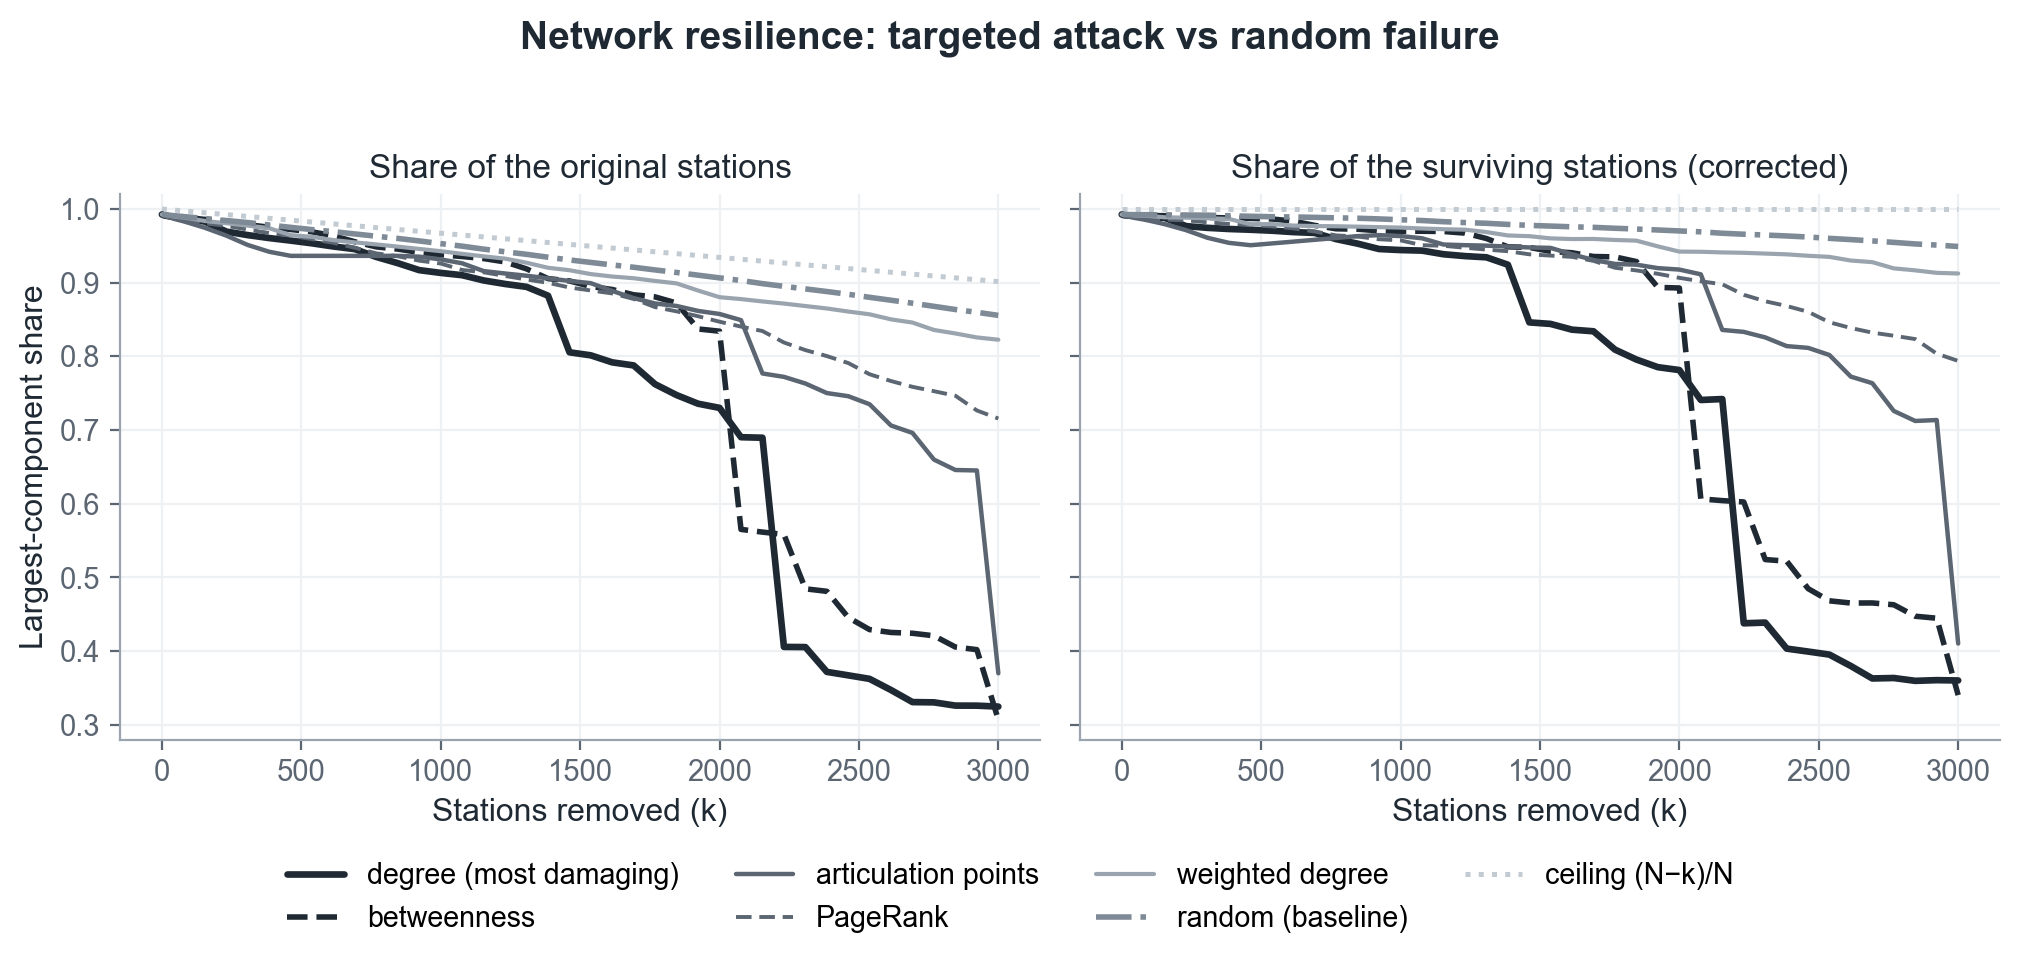
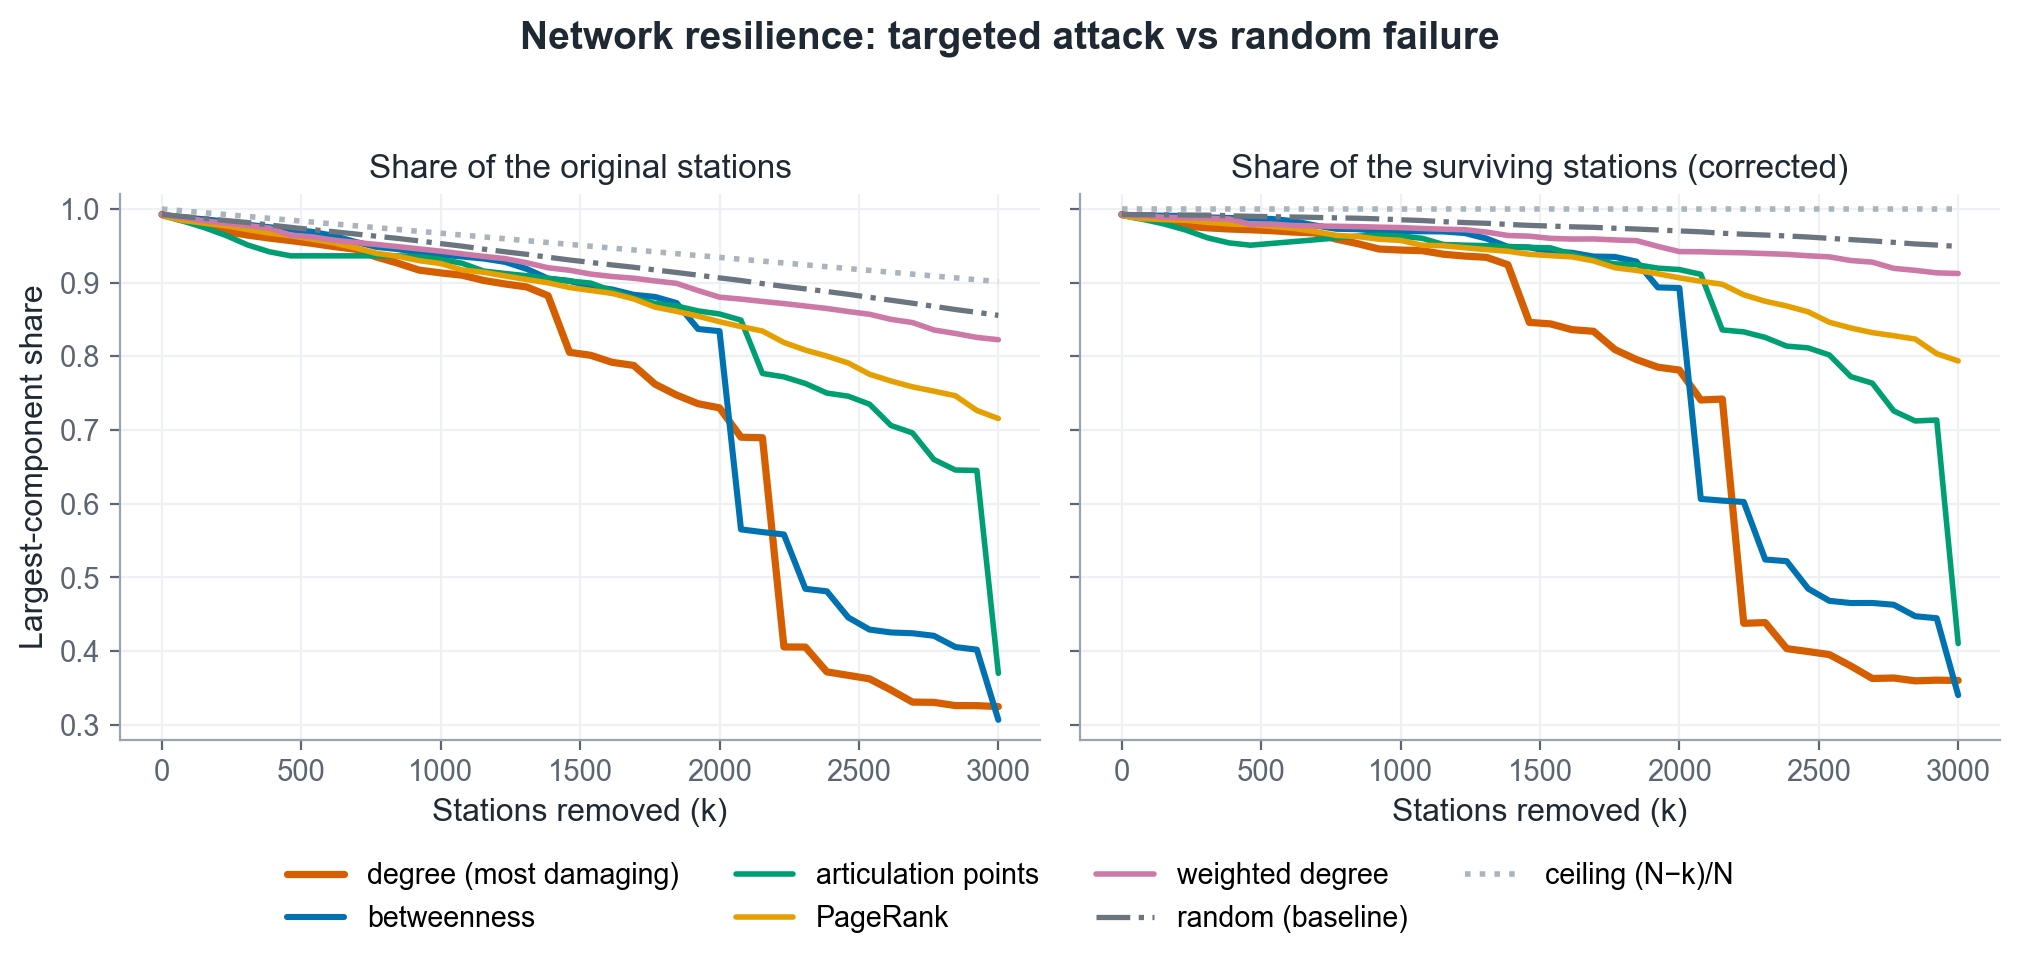
Colour the resilience curves with a colour-blind-safe palette
Switch the seven series from grayscale to the Okabe-Ito palette (attack
strategies coloured, random/ceiling kept grey as references).

diff --git a/reports/make_resilience_figure.py b/reports/make_resilience_figure.py
@@ -21,14 +21,15 @@ OUT.parent.mkdir(parents=True, exist_ok=True)
 d = pd.read_csv(CSV, encoding="utf-8-sig")
 N = int(d.loc[d["removed"] == 0, "surviving_nodes"].max())
 
-# draw order (bottom of the band -> top) and per-series style
+# Attack strategies use the Okabe-Ito colour-blind-safe palette; the two reference
+# curves (random, ceiling) stay grey so they read as baselines, not competitors.
 STYLE = {
-    "degree":              dict(color="#1f2933", ls="-",  lw=2.4, label="degree (most damaging)"),
-    "betweenness":         dict(color="#1f2933", ls="--", lw=2.0, label="betweenness"),
-    "articulation points": dict(color="#5b6672", ls="-",  lw=1.6, label="articulation points"),
-    "pagerank":            dict(color="#5b6672", ls=(0, (4, 2)), lw=1.4, label="PageRank"),
-    "weighted degree":     dict(color="#9aa4af", ls="-",  lw=1.5, label="weighted degree"),
-    "random (baseline)":   dict(color="#7f8a97", ls="-.", lw=2.0, label="random (baseline)"),
+    "degree":              dict(color="#D55E00", ls="-",  lw=2.6, label="degree (most damaging)"),
+    "betweenness":         dict(color="#0072B2", ls="-",  lw=2.2, label="betweenness"),
+    "articulation points": dict(color="#009E73", ls="-",  lw=2.0, label="articulation points"),
+    "pagerank":            dict(color="#E69F00", ls="-",  lw=2.0, label="PageRank"),
+    "weighted degree":     dict(color="#CC79A7", ls="-",  lw=2.0, label="weighted degree"),
+    "random (baseline)":   dict(color="#6b7580", ls="-.", lw=1.9, label="random (baseline)"),
 }
 
 plt.rcParams.update({"font.family": ["Arial", "DejaVu Sans"]})
@@ -42,7 +43,7 @@ for ax, ycol, sub in [(axL, "lcc_share_original", "Share of the original station
     # (N-k)/N ceiling
     k = np.sort(d["removed"].unique())
     ceil = (N - k) / N if ycol == "lcc_share_original" else np.ones_like(k, dtype=float)
-    ax.plot(k, ceil, color="#c2cad2", ls=":", lw=1.8, zorder=2, label="ceiling (N−k)/N")
+    ax.plot(k, ceil, color="#aab4bd", ls=":", lw=2.0, zorder=2, label="ceiling (N−k)/N")
     ax.set_title(sub, fontsize=12, color="#1f2933", pad=6)
     ax.set_xlabel("Stations removed (k)", fontsize=11.5, color="#1f2933")
     ax.tick_params(labelsize=10.5, colors="#5b6672")
